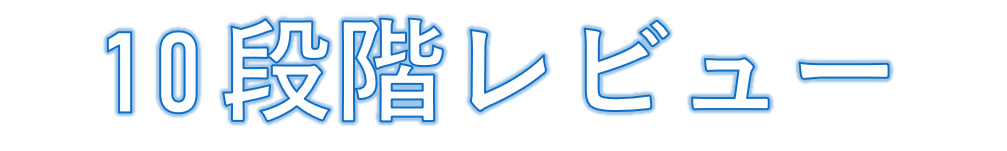
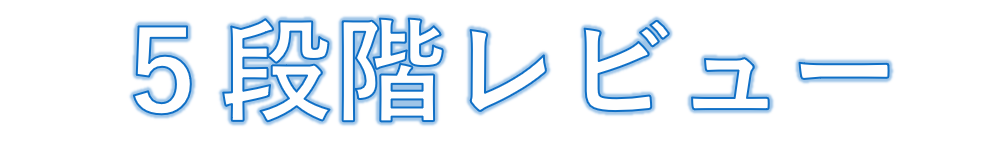
first commit

diff --git a/gv/templates/gv/station.html b/gv/templates/gv/station.html
@@ -80,7 +80,62 @@
 	-webkit-animation: typing 3s steps(21, end),
 	           blink-caret .5s step-end infinite alternate;
 }
+.typing2 { 
+	font: bold 300% Consolas, Monaco, monospace;
+	border-right: .1em solid black;
+	width: 16.5em; 
+	width: 21ch;
+	margin: 2em 1em;
+	white-space: nowrap;
+	overflow: hidden;
+	-webkit-animation: typing 3s steps(21, end),
+	           blink-caret .5s step-end infinite alternate;
+}
+</style>
 
+<style>
+.anime_test3 {
+    display:  block;                /* ブロック要素にする */
+    margin: 0 auto;                 /* 要素中央揃え */
+    position:  relative;            /* 位置指定 */
+    animation: anime1 4s ease;      /* アニメーション指定 */
+}
+ 
+@keyframes anime1 {
+    0% {
+        opacity:  0;                /* 透明度指定 */
+        top: 500px;                  /* 位置指定 */
+    }
+    50% {
+        opacity:  0;                /* 透明度指定 */
+        top: 500;                     /* 位置指定 */
+    }
+    100% {
+        opacity:  1;                /* 透明度指定 */
+        top: 220;                     /* 位置指定 */
+    }
+}
+.anime_test4 {
+    display:  block;                /* ブロック要素にする */
+    margin: 0 auto;                 /* 要素中央揃え */
+    position:  relative;            /* 位置指定 */
+    animation: anime1 6.5s ease;      /* アニメーション指定 */
+}
+ 
+@keyframes anime1 {
+    0% {
+        opacity:  0;                /* 透明度指定 */
+        top: 700px;                  /* 位置指定 */
+    }
+    50% {
+        opacity:  0;                /* 透明度指定 */
+        top: 700;                     /* 位置指定 */
+    }
+    100% {
+        opacity:  1;                /* 透明度指定 */
+        top: 350;                     /* 位置指定 */
+    }
+}
 </style>
 
 {% endblock%}
@@ -91,33 +146,23 @@
 <!--<img src="/static/gv/homepage/images/titlelogo2.PNG" alt="Re:Re:ss" width="50%"/>
 -->
 
-  <p style="position: relative;">
-        <img src="{% static 'gv/homepage/images/stationback2.PNG'%}" alt="立教大学　Re:Re:ss/リリス　履修　hp-login" class="mainimage" width="100%" height="300%">
-        <div class="typing" style="position: absolute; top: 15px; left: 10px; width: 300px; text-align: center; font-size:24px; color: rgb(252, 251, 212);">Welcome to Re:Re:ss!!</div>
-    </p>
-
-
-<div class="box61" style="margin-left: 5px; margin-right: 5px;" width="100%">
-
-    <!--<a href="mailto:rikkyo.reress301101@gmail.com?subject=問い合わせ・エラー報告等&amp;body=ご記入ください">メールはこちらへ</a> -->
-    <br>
-    <div><span style="color:#FFF; font-size:20px; background-color: rgb(118, 105, 240); padding-left: 7px; padding-right: 7px;">利用規約・ご利用上の注意</span></div>
-    <div class="box6" style="margin-left: 5px; margin-right: 5px;">
-        <p style="font-size:16px;">リリスの安全性について<br><br>リリスは、ユーザーの皆様に任意でIDとパスワードを入力頂き立教大学WEBシステムから成績データを収集しますが、パスワードや名前は一切保存しておりません。<br>ユーザーの学部学科を識別し適切なデータを提供するために、IDのみ保存しております。<br>保存内容等の詳細は、Twitter投稿「リリスの安全性について」メディアをご参照ください。</p>      
-    </div>
-
-            <!--<button id='load-checker'></button>-->
-    <div style="text-align:center;">
+<p style="position: relative;">
+    <img src="{% static 'gv/homepage/images/stationback2.PNG'%}" alt="立教大学　Re:Re:ss/リリス　履修　hp-login" class="mainimage" width="100%" height="300%">
+    <div class="typing" style="position: absolute; top: 15px; left: 10px; width: 300px; text-align: center; font-size:24px; color: rgb(252, 251, 212);">Welcome to Re:Re:ss!!</div>
+    <div class="typing2" style="position: absolute; top: 80px; left: 10px; width: 300px; text-align: center; font-size:24px; color: rgb(252, 251, 212);">CLICK TO START >>></div>
+    <div class="anime_test3" style="text-align:center; position: absolute; top: 220px; left: 40px; width: 300px; text-align: center; font-size:24px; color: rgb(252, 251, 212);">
         <a href={% url 'hp' %}>
             <button class="hamon">
                     START  Re:Re:ss
             </button>
         </a>                      
     </div>
-
-
-    <p style="font-size:16px;"></p>
-</div>
+    <p class="anime_test4" style="text-align:center; position: absolute; top: 350px; left: 40px; width: 300px; text-align: center; font-size:24px; color: rgb(252, 251, 212); font-size:16px;">リリスの使い方<br><br>新入生<br>「先輩の履修」という機能を使ってみてください。履修の組み方の手助けになるかもしれません。<br><br>履修登録<br>人気授業分析（授業名クリック） → 授業分析（ページ下担当教授名クリック） → 教授分析<br>といった使い方が便利です。<br><br>成績参照<br>GPAランキングや成績グラフで自分のステータスが分かります。レビュー機能で履修した授業の評価をすると、他の人の役に立つかもしれません。<br><br>左上メニューのトップページを基盤に、それぞれの機能をお使いください。<br><br>Re:Re:ssで素敵な授業と巡り合いましょう。</p>      
+    <!--
+    <div class="anime_test3" style="position: absolute; top: 15px; left: 10px; width: 300px;"></div>
+    <img class="anime_test2" src="{% static 'gv/homepage/images/titlelogo2.PNG'%}" style="position: absolute; top: 15px; left: 10px; width: 300px;">
+    -->
+</p>
 
 
 

diff --git a/gv/templates/gv/sub_search.html b/gv/templates/gv/sub_search.html
@@ -198,7 +198,7 @@
       //labels: ["月曜", "火曜", "水曜", "木曜", "金曜", "土曜", "日曜"],
       labels: kind_name,
       datasets: [{
-        label: "10段階評価平均",
+        label: "5段階評価平均",
         backgroundColor: color(colorSet.red).alpha(0.5).rgbString(),
         borderColor: colorSet.red,
         pointBackgroundColor: colorSet.red,

diff --git a/gv/templates/gv/teacher_search.html b/gv/templates/gv/teacher_search.html
@@ -252,7 +252,7 @@
       //labels: ["月曜", "火曜", "水曜", "木曜", "金曜", "土曜", "日曜"],
       labels: kind_name,
       datasets: [{
-        label: "10段階評価平均",
+        label: "5段階評価平均",
         backgroundColor: color(colorSet.red).alpha(0.5).rgbString(),
         borderColor: colorSet.red,
         pointBackgroundColor: colorSet.red,

diff --git a/gv/templates/gv/judge_subject.html b/gv/templates/gv/judge_subject.html
@@ -40,6 +40,7 @@
 
 </style>
 
+
 {% endblock%}
 
 {% block body %}

diff --git a/gv/views.py b/gv/views.py
@@ -1,7 +1,7 @@
 import sys
 import traceback
 import time
-
+import datetime
 #
 from django.shortcuts import render, redirect
 from django.http import HttpResponseRedirect
@@ -95,6 +95,17 @@ def base(request):
     return render(request, 'gv/hp.html', index_params)
 
 def hp(request):
+    try:
+        today = request.session["today"]
+        if today != str(datetime.date.today()):
+            request.session["today"]=str(datetime.date.today())
+            return render(request, 'gv/station.html')
+        else:
+            pass
+    except:
+        request.session["today"]=str(datetime.date.today())
+        return render(request, 'gv/station.html')
+
     form = userInfoForm()
     stuobj = list(studentInfo.objects.values_list('user_id', flat=True))
     numbers=len(stuobj)
@@ -153,7 +164,7 @@ def flush(request):#flush関数自体はsessionのflushを行わない。hp.html
         }
 
     return render(request, 'gv/hp.html', index_params)
-    #return render(request, 'gv/station.html', index_params)
+    #return render(request, 'gv/station.html')
 
 
 
@@ -356,6 +367,7 @@ def mainhome(request):
         else:
             pass
         request.session.flush()
+        request.session["today"]=str(datetime.date.today())
         if short_cut_sn in stuobj:#もしすでに登録されているなら
 
             try:#もしsessionが残っているなら #ここはもう要らないかも
@@ -579,7 +591,9 @@ def mainhome(request):
         elapsed_time = np.round(time.time() - start,1)
         print('---mainhome全プロセス経過時間 {0}秒---'.format(elapsed_time))
         #ログインしたことの証拠,mainhome_after_loginで使用
-        return render(request, 'gv/site_map.html', mainhome_params)
+        #return render(request, 'gv/site_map.html', mainhome_params)
+        return render(request, 'gv/station.html')
+
 
     #getでmainhomeにアクセスしてしまった時の処理
     else:
